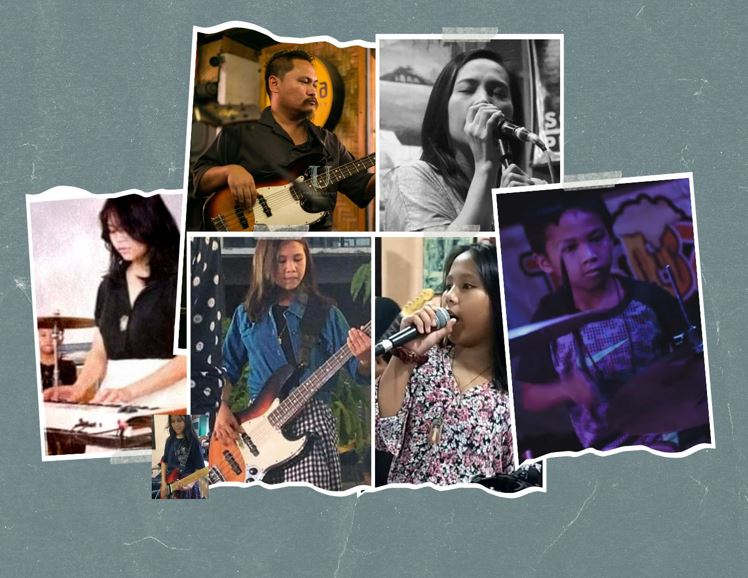
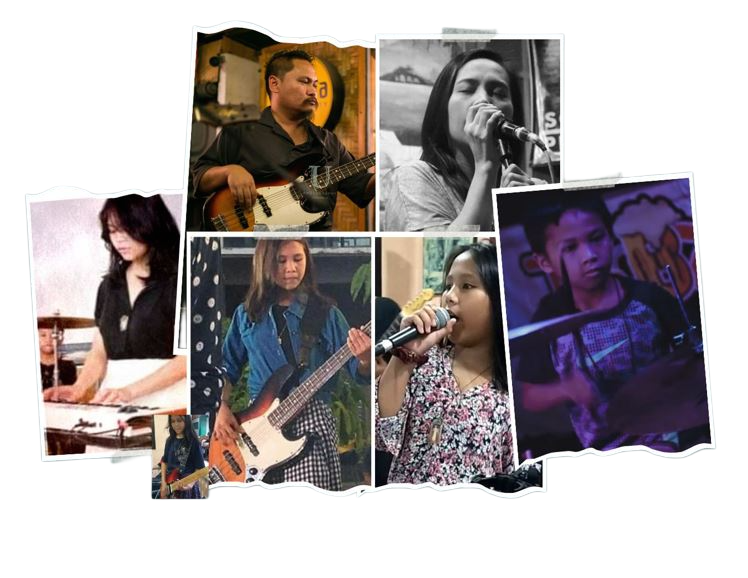
Refactor CSS variables for consistency and update background image

diff --git a/assets/css/styles.css b/assets/css/styles.css
@@ -7,12 +7,12 @@
     --secondary-font: "Jacques Francois Shadow", sans-serif;
     --primary-color: #26525e;
     /* Blue Dianne */
-    --secondary-color: #81a5ab;
-    /* Gumbo */
-    --highlight-color: #59a0a6;
-    /* Beaker Bay */
-    --secondary-highlight-color: #97aab1;
-    /* Gull Grey */
+    --secondary-color: #eef1f1;
+    /* Light Greyish Cyan */
+    --highlight-color: #a1c9ce;
+    /* Light Blue Dianne */
+    --secondary-highlight-color: #18343e;
+    /* Dark Blue Dianne */
 }
 
 /* Global Styles */
@@ -20,6 +20,7 @@
 body {
     font-family: var(--primary-font);
     padding-top: 89px; /* 89px is the height of the navbar */
+    background-image: url('../images/Missioned\ Souls4.jpg');
 }
 
 h1 {
@@ -36,7 +37,7 @@ h1 {
 
 /* grid visualisation CSS for testing */
 
-.container,
+/* .container,
 .row {
     border: 2px solid black;
 }
@@ -44,4 +45,4 @@ h1 {
 .col-12 {
     border: 2px solid white;
     background-color: lightgray;
-}
+} */
